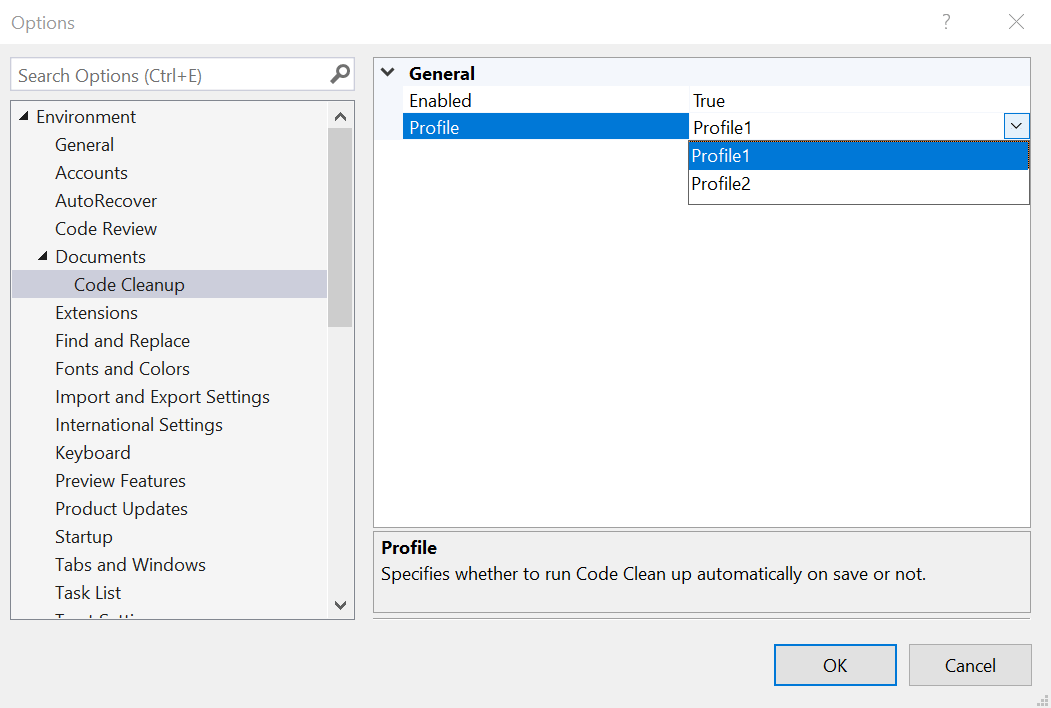
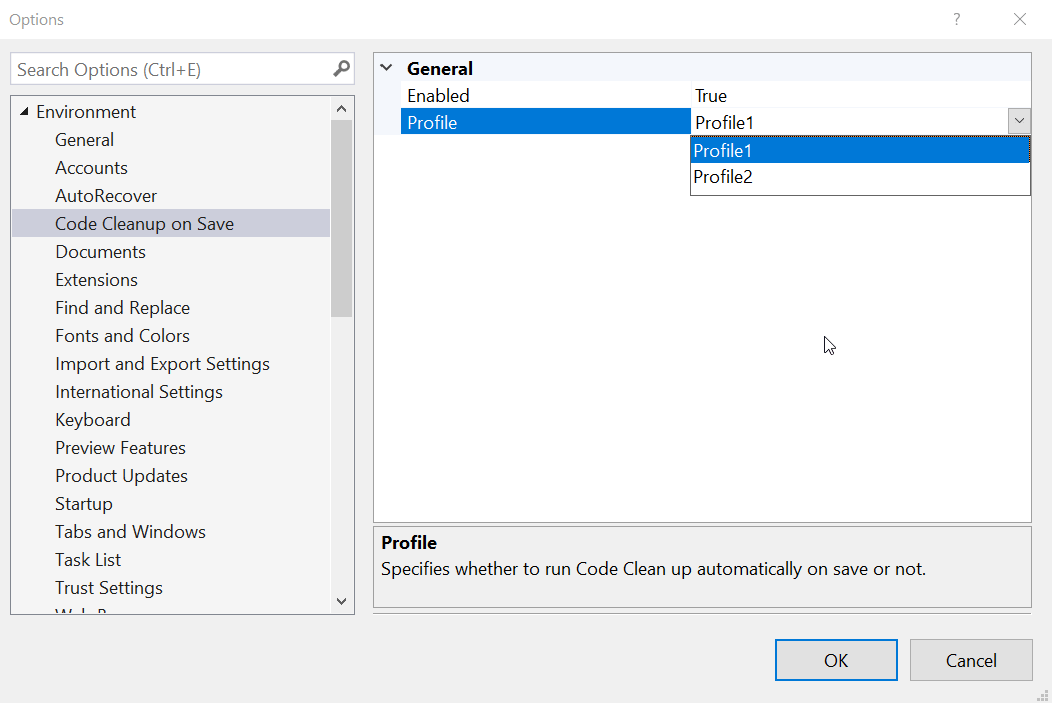
Moved options page

diff --git a/src/CodeCleanupOnSavePackage.cs b/src/CodeCleanupOnSavePackage.cs
@@ -6,7 +6,7 @@ namespace CodeCleanupOnSave
 {
     [PackageRegistration(UseManagedResourcesOnly = true, AllowsBackgroundLoading = true)]
     [InstalledProductRegistration(Vsix.Name, Vsix.Description, Vsix.Version)]
-    [ProvideOptionPage(typeof(DialogPageProvider.General), "Environment\\Documents", "Code Cleanup", 0, 0, true, ProvidesLocalizedCategoryName = false)]
+    [ProvideOptionPage(typeof(DialogPageProvider.General), "Environment", "Code Cleanup on Save", 0, 0, true, new[] { "Code Cleanup on Save" }, ProvidesLocalizedCategoryName = false)]
     [Guid("aee4d337-3c9a-4f9b-86ae-6dd7bd751bd5")]
     public sealed class CodeCleanupOnSavePackage : AsyncPackage
     {
